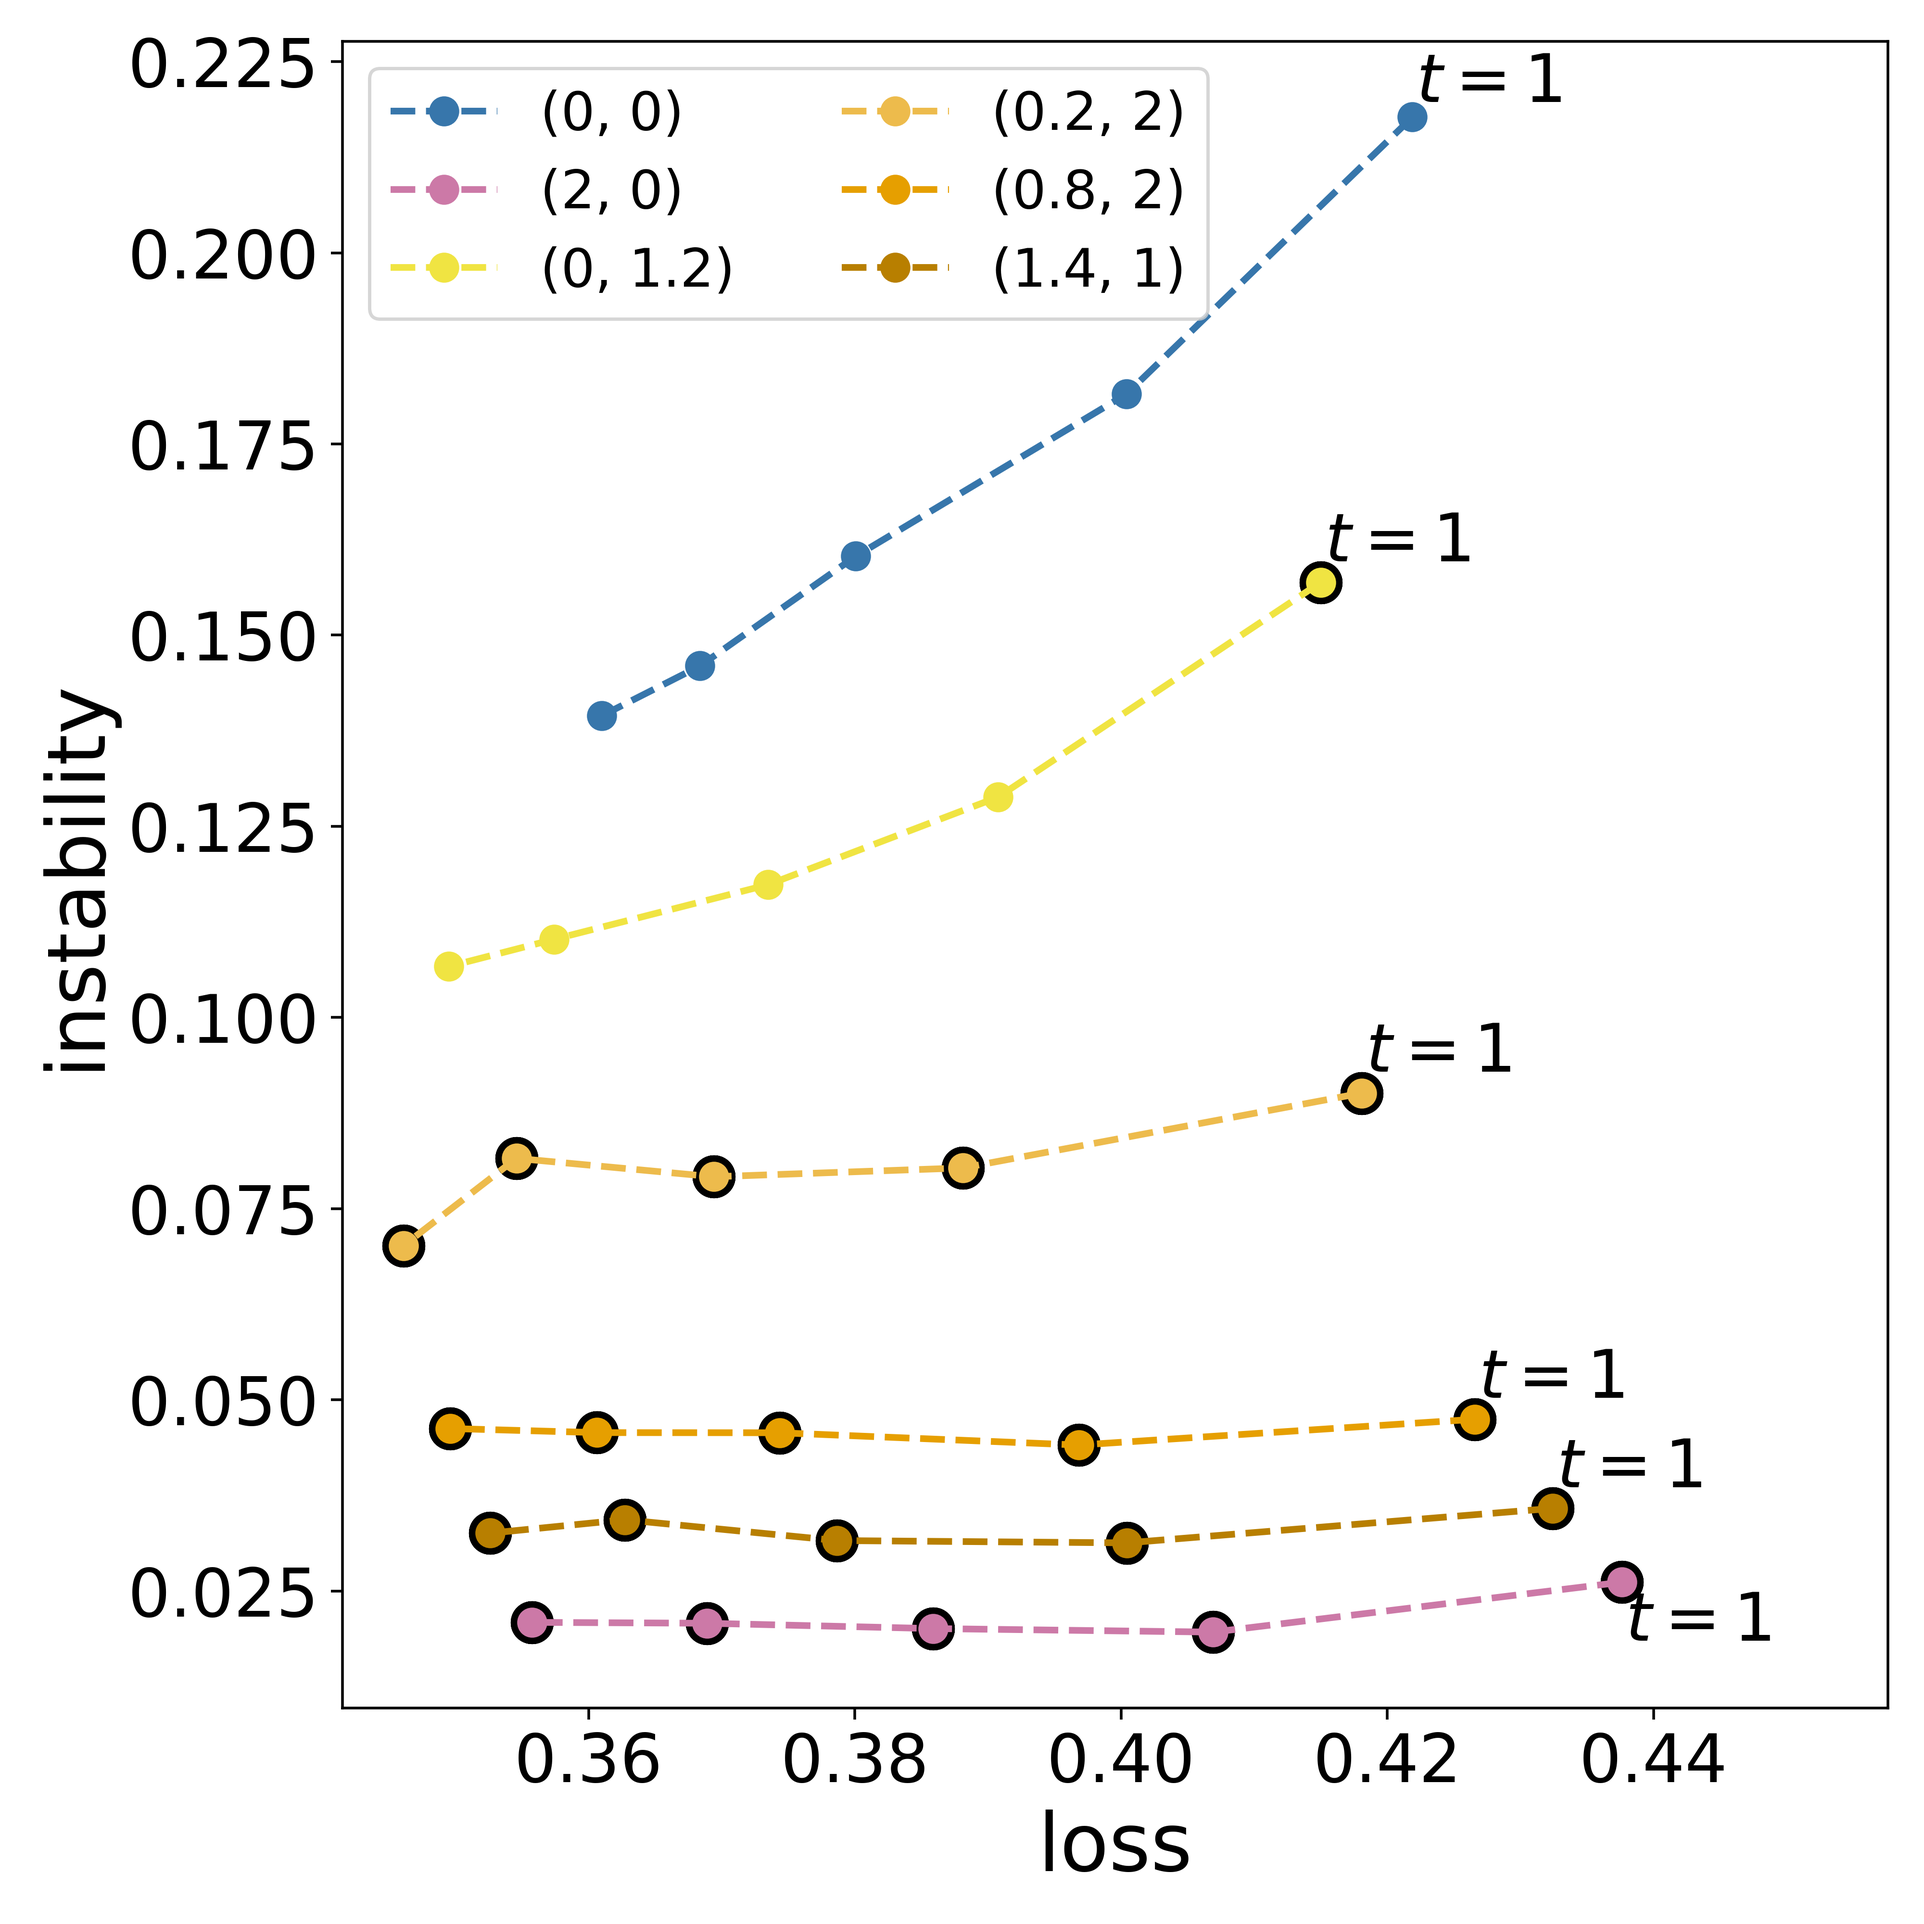
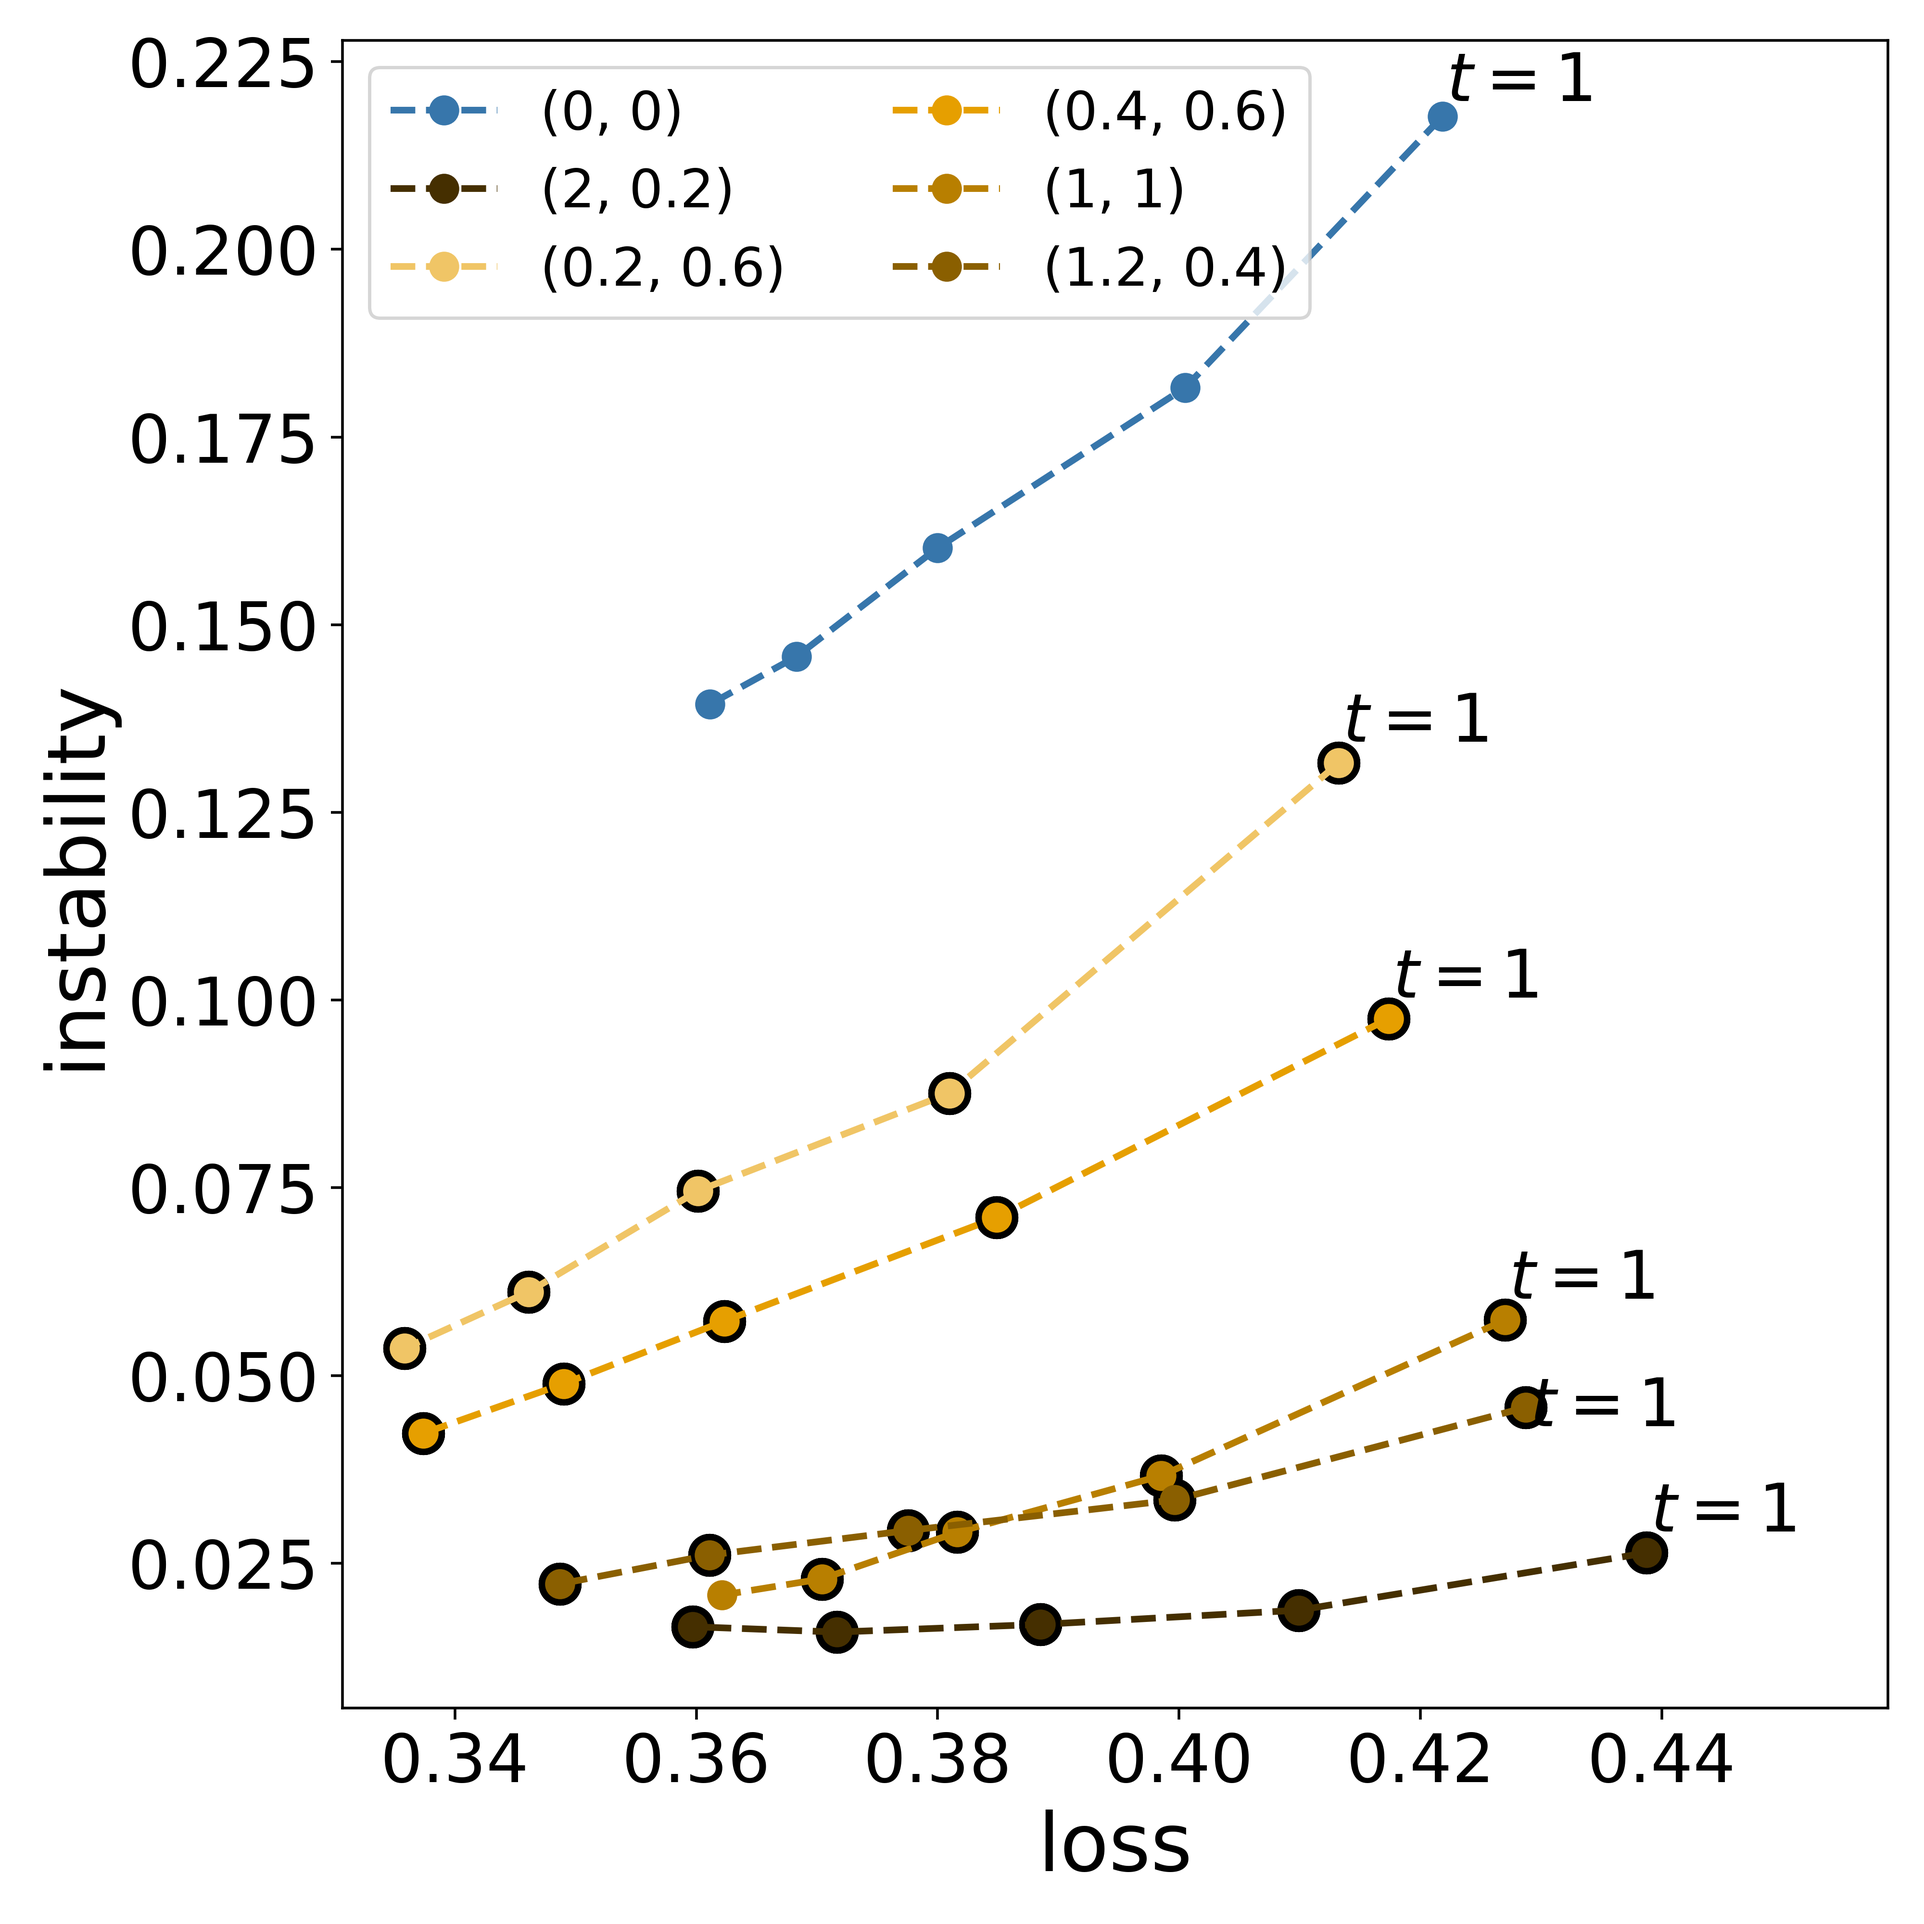
finish with experiments

diff --git a/StableTrees_examples/California Housing/iterative_updates.py b/StableTrees_examples/California Housing/iterative_updates.py
@@ -33,11 +33,17 @@ def color_scatter(alpha, beta):
             return "#F0E442" # ABU
         if alpha>0 and beta==0:
             return "#CC79A7" # SL
-        if 0<alpha<0.5:
-            return "#edbb4c" # combi of SL and ABU
-        if 0<alpha<0.8:
+        if alpha<0.4:
+            return "#f0c566" # combi of SL and ABU
+        elif alpha<1:
             return "#E69F00" # combi of SL and ABU
-        return "#b87f00" 
+        elif alpha<1.2:
+            return "#b87f00" # combi of SL and ABU
+        elif alpha<2:
+            return "#8a5f00" # combi of SL and ABU
+        elif alpha<2.5:
+            return "#452f00" # combi of SL and ABU
+        return "#E69F00" 
 
 
 compute = False
@@ -48,13 +54,13 @@ compute = False
 criterion = "mse"
 models = {  
                 "baseline": Tree(criterion = criterion,min_samples_leaf=5, adaptive_complexity=True, alpha=0,beta=0),
-                "SL":Tree(criterion = criterion,min_samples_leaf=5, adaptive_complexity=True, alpha=1,beta=0),
-                "SLABU": Tree(criterion = criterion,min_samples_leaf=5,adaptive_complexity=True, alpha=0,beta=1),
-                #"SLABU1": Tree(criterion=criterion,min_samples_leaf=5,adaptive_complexity=True, alpha=0,beta=1.2),
-                #"SLABU2": Tree(criterion=criterion,min_samples_leaf=5,adaptive_complexity=True, alpha=0.6,beta=2),
-                #"SLABU3": Tree(criterion=criterion,min_samples_leaf=5,adaptive_complexity=True, alpha=1.2,beta=0.4)
+                "SL":Tree(criterion = criterion,min_samples_leaf=5, adaptive_complexity=True, alpha=2,beta=0.2),
+                "SLABU": Tree(criterion = criterion,min_samples_leaf=5,adaptive_complexity=True, alpha=0.2,beta=0.6),
+                "SLABU1": Tree(criterion=criterion,min_samples_leaf=5,adaptive_complexity=True, alpha=0.4,beta=0.6),
+                "SLABU2": Tree(criterion=criterion,min_samples_leaf=5,adaptive_complexity=True, alpha=1,beta=1),
+                "SLABU3": Tree(criterion=criterion,min_samples_leaf=5,adaptive_complexity=True, alpha=1.2,beta=0.4)
                 }
-time = 10
+time = 5
 if compute:
 
     prev_pred = {name:0 for name in models.keys()}
@@ -66,7 +72,7 @@ if compute:
    
 
 
-    repeat =5
+    repeat =50
     for i in tqdm(range(repeat), desc="running"):
         kf = KFold(n_splits=time+2,shuffle=True,random_state=i)
         inds = list(kf.split(x_all))
@@ -194,7 +200,7 @@ if not compute:
     plt.legend(loc='upper left',fontsize=8*2, ncols=2)
     adjust_text(texts,add_objects=scatters,ax= ax)
     plt.tight_layout()
-    plt.savefig(f"StableTrees_examples\plots\\multiple_update_iterations_experiment_remake.png")
+    plt.savefig(f"StableTrees_examples\plots\\multiple_update_iterations_experiment.png")
     plt.close()
 
 

diff --git a/StableTrees_examples/California Housing/increasing_sample_sizes.py b/StableTrees_examples/California Housing/increasing_sample_sizes.py
@@ -34,19 +34,25 @@ def color_scatter(alpha, beta):
             return "#F0E442" # ABU
         if alpha>0 and beta==0:
             return "#CC79A7" # SL
-        if 0<alpha<0.5:
-            return "#edbb4c" # combi of SL and ABU
-        if 0<alpha<0.8:
+        if alpha<0.4:
+            return "#f0c566" # combi of SL and ABU
+        elif alpha<1:
             return "#E69F00" # combi of SL and ABU
-        return "#b87f00" 
+        elif alpha<1.2:
+            return "#b87f00" # combi of SL and ABU
+        elif alpha<2:
+            return "#8a5f00" # combi of SL and ABU
+        elif alpha<2.5:
+            return "#452f00" # combi of SL and ABU
+        return "#E69F00" 
 
 criterion = "mse"
 models = {  
                 "baseline": Tree(criterion = criterion,min_samples_leaf=5, adaptive_complexity=True, alpha=0,beta=0),
-                "SL":Tree(criterion = criterion,min_samples_leaf=5, adaptive_complexity=True, alpha=2,beta=0),
-                "SLABU": Tree(criterion = criterion,min_samples_leaf=5,adaptive_complexity=True, alpha=0.2,beta=1.2),
-                "SLABU1": Tree(criterion=criterion,min_samples_leaf=5,adaptive_complexity=True, alpha=0.4,beta=2),
-                "SLABU2": Tree(criterion=criterion,min_samples_leaf=5,adaptive_complexity=True, alpha=0.6,beta=2),
+                "SL":Tree(criterion = criterion,min_samples_leaf=5, adaptive_complexity=True, alpha=2,beta=0.2),
+                "SLABU": Tree(criterion = criterion,min_samples_leaf=5,adaptive_complexity=True, alpha=0.2,beta=0.6),
+                "SLABU1": Tree(criterion=criterion,min_samples_leaf=5,adaptive_complexity=True, alpha=0.4,beta=0.6),
+                "SLABU2": Tree(criterion=criterion,min_samples_leaf=5,adaptive_complexity=True, alpha=1,beta=1),
                 "SLABU3": Tree(criterion=criterion,min_samples_leaf=5,adaptive_complexity=True, alpha=1.2,beta=0.4)
                 }
 
@@ -177,6 +183,6 @@ if not compute:
     plt.legend(loc='upper left',fontsize="20")
     adjust_text(texts,add_objects=scatters,ax= ax)
     plt.tight_layout()
-    plt.savefig(f"StableTrees_examples\plots\\varied_sample_size_experiment_remake.png")
+    plt.savefig(f"StableTrees_examples\plots\\varied_sample_size_experiment.png")
     plt.close()
  

diff --git a/StableTrees_examples/ISLR/plot_pareto_UAI.py b/StableTrees_examples/ISLR/plot_pareto_UAI.py
@@ -49,8 +49,8 @@ import itertools
 
 
 
-df_ISLR =pd.read_csv('StableTrees_examples/results/main_experiment_ISLR_remake.csv')
-df_california  = pd.read_csv('StableTrees_examples/results/main_experiment_remake.csv')
+df_ISLR =pd.read_csv('StableTrees_examples/results/main_experiment_ISLR.csv')
+df_california  = pd.read_csv('StableTrees_examples/results/main_experiment.csv')
 
 df = pd.concat([df_california,df_ISLR], ignore_index=True)
 
@@ -141,5 +141,5 @@ fig.legend(handles=legend_elements, loc='upper center', bbox_to_anchor=(0.5, 1.0
 fig.tight_layout()
 fig.subplots_adjust(top=0.9)
 
-plt.savefig(f"StableTrees_examples\plots\\main_experiment_all_change_remake.png")
+plt.savefig(f"StableTrees_examples\plots\\main_experiment_all.png")
 plt.close()
